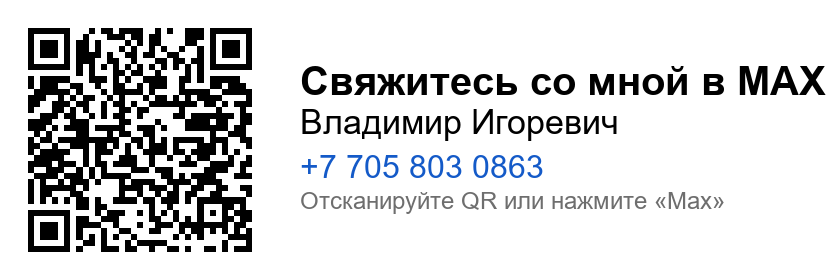
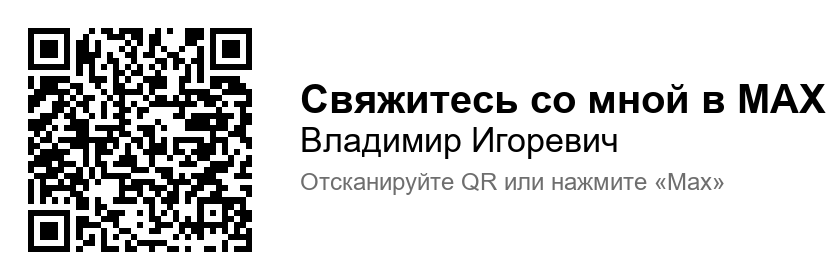
feat(localizer): redesign FrmRverify trial window; remove phone from MAX card everywhere

Changed region(s): [[0.3405, 0.2286, 0.9905, 0.7714]]

diff --git a/client-core/tools/Localizer/Program.cs b/client-core/tools/Localizer/Program.cs
@@ -1747,6 +1747,7 @@ internal static class Program
             string qrPng = System.IO.Path.Combine(assetDir, "max_qr.png");
             int maxQrChanges = InjectMaxQr(mod, qrPng);
             int frmRgChanges = TuneFrmRg(mod);
+            int verifyChanges = PatchVerifyContacts(mod);
             int aboutTitleChanges = FixAboutTitle(mod);
             int updateChanges = DisableUpdateCheck(mod);
             int pktChanges = PatchHandshakePkt(mod);
@@ -1782,7 +1783,7 @@ internal static class Program
             // shown by Explorer / FileVersionInfo). The activation key is derived from the *managed*
             // Application.ProductVersion (="1.0"), not this resource, so 3.8.4 is cosmetic only.
             int win32Ver = NormalizeWin32Version(outExe, releaseVersion);
-            Console.WriteLine($"localized: ldstr replaced={replaced}, vendor ldstr blanked={blanked}, resource strings replaced={resReplaced}, max-qr edits={maxQrChanges}, frmrg edits={frmRgChanges}, about-title edits={aboutTitleChanges}, update edits={updateChanges}, handshake-pkt edits={pktChanges}, asm-name-forced={nameForced}, brand-attrs={brandAttrChanges}, brand-strings={brandStrChanges}, attr strings={attrChanges}, material-key edits={materialKeyChanges}, split-delete edits={splitDeleteChanges}, bom-mapping edits={bomMappingChanges}, ui-text edits={uiTextChanges}, dialog-layout edits={dialogLayoutChanges}, about-box edits={aboutBoxChanges}, win32-ver edits={win32Ver}, win32-brand edits={win32Brand}, strongname-stripped={snStripped} -> {outExe}");
+            Console.WriteLine($"localized: ldstr replaced={replaced}, vendor ldstr blanked={blanked}, resource strings replaced={resReplaced}, max-qr edits={maxQrChanges}, frmrg edits={frmRgChanges}, about-title edits={aboutTitleChanges}, update edits={updateChanges}, handshake-pkt edits={pktChanges}, asm-name-forced={nameForced}, brand-attrs={brandAttrChanges}, brand-strings={brandStrChanges}, attr strings={attrChanges}, material-key edits={materialKeyChanges}, split-delete edits={splitDeleteChanges}, bom-mapping edits={bomMappingChanges}, ui-text edits={uiTextChanges}, dialog-layout edits={dialogLayoutChanges}, about-box edits={aboutBoxChanges}, verify edits={verifyChanges}, win32-ver edits={win32Ver}, win32-brand edits={win32Brand}, strongname-stripped={snStripped} -> {outExe}");
             if (unmatched.Count > 0)
             {
                 Console.WriteLine($"WARNING: {unmatched.Count} translatable Chinese ldstr have NO RU entry (still visible!):");
@@ -2570,6 +2571,206 @@ internal static class Program
         load.Body.Instructions.Insert(insertAt + 1, Instruction.Create(OpCodes.Call, setup));
 
         Console.WriteLine("  FrmAbout: rebuilt About box (site link, email, MAX QR; removed phones/QQ/version/OS/desc/log)");
+        return 1;
+    }
+
+    // Redesigns the trial / "license not found" window (FrmRverify) to match the
+    // rebuilt About box: the vendor contact grids — TableLayoutPanel3 (QQ /
+    // Группа QQ / Email rows) and TableLayoutPanel4 (the Сайт: row) — are hidden,
+    // and a clean centered e-mail line plus a clickable "Перейти на сайт"
+    // hyperlink are dropped into the freed space above the MAX QR card. The red
+    // "license not found" banner (TableLayoutPanel2), the phone-free MAX QR
+    // (PictureBox1) and the Проба / Регистр / Отмена buttons (TableLayoutPanel1)
+    // are left untouched. Same pattern as PatchAboutBox: an injected instance
+    // helper zt_VerifySetup() is called at the end of InitializeComponent so the
+    // controls always exist, and the website link opens via explorer.exe (a child
+    // process) so a broken default-browser association can never fault the host.
+    private static int PatchVerifyContacts(ModuleDefMD mod)
+    {
+        var frm = mod.Find("ZTool.FrmRverify", false);
+        var init = frm?.FindMethod("InitializeComponent");
+        if (frm == null || init?.Body == null)
+        {
+            Console.WriteLine("  FrmRverify: contact patch skipped (form/InitializeComponent not found)");
+            return 0;
+        }
+        if (frm.FindMethod("zt_VerifySetup") != null) return 0; // idempotent
+
+        var wf = FindAssemblyRef(mod, "System.Windows.Forms");
+        var dr = FindAssemblyRef(mod, "System.Drawing");
+        if (wf == null || dr == null)
+        {
+            Console.WriteLine("  FrmRverify: contact patch skipped (WinForms/Drawing refs missing)");
+            return 0;
+        }
+        TypeRefUser WF(string n) => new TypeRefUser(mod, "System.Windows.Forms", n, wf);
+        TypeRefUser DR(string n) => new TypeRefUser(mod, "System.Drawing", n, dr);
+
+        var trControl = WF("Control");
+        var trCtrlColl = new TypeRefUser(mod, "", "ControlCollection", trControl);
+        var trLabel = WF("Label");
+        var trLinkLabel = WF("LinkLabel");
+        var trLinkHandler = WF("LinkLabelLinkClickedEventHandler");
+        var trPoint = DR("Point");
+        var trSize = DR("Size");
+        var trFont = DR("Font");
+
+        var sigControl = new ClassSig(trControl);
+        var sigCtrlColl = new ClassSig(trCtrlColl);
+        var sigPoint = new ValueTypeSig(trPoint);
+        var sigSize = new ValueTypeSig(trSize);
+        var sigFont = new ClassSig(trFont);
+        var sigContentAlign = new ValueTypeSig(DR("ContentAlignment"));
+        var sigFontStyle = new ValueTypeSig(DR("FontStyle"));
+        var sigLinkHandler = new ClassSig(trLinkHandler);
+
+        var getControls = new MemberRefUser(mod, "get_Controls", MethodSig.CreateInstance(sigCtrlColl), trControl);
+        var ccAdd = new MemberRefUser(mod, "Add", MethodSig.CreateInstance(mod.CorLibTypes.Void, sigControl), trCtrlColl);
+        var setText = new MemberRefUser(mod, "set_Text", MethodSig.CreateInstance(mod.CorLibTypes.Void, mod.CorLibTypes.String), trControl);
+        var setFont = new MemberRefUser(mod, "set_Font", MethodSig.CreateInstance(mod.CorLibTypes.Void, sigFont), trControl);
+        var setLocation = new MemberRefUser(mod, "set_Location", MethodSig.CreateInstance(mod.CorLibTypes.Void, sigPoint), trControl);
+        var setCtrlSize = new MemberRefUser(mod, "set_Size", MethodSig.CreateInstance(mod.CorLibTypes.Void, sigSize), trControl);
+        var setVisible = new MemberRefUser(mod, "set_Visible", MethodSig.CreateInstance(mod.CorLibTypes.Void, mod.CorLibTypes.Boolean), trControl);
+
+        var labCtor = new MemberRefUser(mod, ".ctor", MethodSig.CreateInstance(mod.CorLibTypes.Void), trLabel);
+        var labAutoSize = new MemberRefUser(mod, "set_AutoSize", MethodSig.CreateInstance(mod.CorLibTypes.Void, mod.CorLibTypes.Boolean), trLabel);
+        var labTextAlign = new MemberRefUser(mod, "set_TextAlign", MethodSig.CreateInstance(mod.CorLibTypes.Void, sigContentAlign), trLabel);
+
+        var linkCtor = new MemberRefUser(mod, ".ctor", MethodSig.CreateInstance(mod.CorLibTypes.Void), trLinkLabel);
+        var linkAutoSize = new MemberRefUser(mod, "set_AutoSize", MethodSig.CreateInstance(mod.CorLibTypes.Void, mod.CorLibTypes.Boolean), trLinkLabel);
+        var linkTextAlign = new MemberRefUser(mod, "set_TextAlign", MethodSig.CreateInstance(mod.CorLibTypes.Void, sigContentAlign), trLinkLabel);
+        var addLinkClicked = new MemberRefUser(mod, "add_LinkClicked", MethodSig.CreateInstance(mod.CorLibTypes.Void, sigLinkHandler), trLinkLabel);
+
+        var pointCtor = new MemberRefUser(mod, ".ctor", MethodSig.CreateInstance(mod.CorLibTypes.Void, mod.CorLibTypes.Int32, mod.CorLibTypes.Int32), trPoint);
+        var sizeCtor = new MemberRefUser(mod, ".ctor", MethodSig.CreateInstance(mod.CorLibTypes.Void, mod.CorLibTypes.Int32, mod.CorLibTypes.Int32), trSize);
+        var fontCtor = new MemberRefUser(mod, ".ctor", MethodSig.CreateInstance(mod.CorLibTypes.Void, mod.CorLibTypes.String, mod.CorLibTypes.Single, sigFontStyle), trFont);
+        var linkHandlerCtor = new MemberRefUser(mod, ".ctor", MethodSig.CreateInstance(mod.CorLibTypes.Void, mod.CorLibTypes.Object, mod.CorLibTypes.IntPtr), trLinkHandler);
+
+        var getTlp3 = frm.FindMethod("get_TableLayoutPanel3");
+        var getTlp4 = frm.FindMethod("get_TableLayoutPanel4");
+        if (getTlp3 == null || getTlp4 == null)
+        {
+            Console.WriteLine("  FrmRverify: contact patch skipped (TLP accessors missing)");
+            return 0;
+        }
+
+        // Process.Start(string,string): open the URL via explorer.exe so a broken
+        // default-browser association can never raise an uncatchable fault in-process.
+        var procStart = mod.GetTypes().SelectMany(t => t.Methods).Where(m => m.Body != null)
+            .SelectMany(m => m.Body.Instructions).Select(i => i.Operand as IMethod)
+            .FirstOrDefault(m => m != null && m.Name == "Start" && m.DeclaringType?.Name == "Process"
+                && m.MethodSig?.Params.Count == 1);
+        if (procStart == null)
+        {
+            Console.WriteLine("  FrmRverify: contact patch skipped (Process.Start ref missing)");
+            return 0;
+        }
+        var procParent = (procStart as MemberRef)?.Class;
+        var procStart2 = procParent == null ? null : new MemberRefUser(mod, "Start",
+            MethodSig.CreateStatic(procStart.MethodSig.RetType, mod.CorLibTypes.String, mod.CorLibTypes.String), procParent);
+
+        // --- inject the website link-click handler ---
+        var linkArgs = new ClassSig(WF("LinkLabelLinkClickedEventArgs"));
+        var exceptionRef = new TypeRefUser(mod, "System", "Exception", mod.CorLibTypes.AssemblyRef);
+        var webClick = new MethodDefUser("zt_VerifyWeb_Click",
+            MethodSig.CreateInstance(mod.CorLibTypes.Void, mod.CorLibTypes.Object, linkArgs),
+            MethodImplAttributes.IL | MethodImplAttributes.Managed,
+            MethodAttributes.Private | MethodAttributes.HideBySig);
+        webClick.Body = new CilBody();
+        {
+            var ins = webClick.Body.Instructions;
+            var ret = Instruction.Create(OpCodes.Ret);
+            var tryStart = (procStart2 != null)
+                ? Instruction.Create(OpCodes.Ldstr, "explorer.exe")
+                : Instruction.Create(OpCodes.Ldstr, SiteUrl);
+            ins.Add(tryStart);
+            if (procStart2 != null)
+            {
+                ins.Add(Instruction.Create(OpCodes.Ldstr, SiteUrl));
+                ins.Add(Instruction.Create(OpCodes.Call, procStart2));
+            }
+            else
+            {
+                ins.Add(Instruction.Create(OpCodes.Call, procStart));
+            }
+            ins.Add(Instruction.Create(OpCodes.Pop));
+            ins.Add(Instruction.Create(OpCodes.Leave_S, ret));
+            var handlerStart = Instruction.Create(OpCodes.Pop);
+            ins.Add(handlerStart);
+            ins.Add(Instruction.Create(OpCodes.Leave_S, ret));
+            ins.Add(ret);
+            webClick.Body.ExceptionHandlers.Add(new ExceptionHandler(ExceptionHandlerType.Catch)
+            {
+                TryStart = tryStart,
+                TryEnd = handlerStart,
+                HandlerStart = handlerStart,
+                HandlerEnd = ret,
+                CatchType = exceptionRef,
+            });
+        }
+        frm.Methods.Add(webClick);
+
+        // --- inject the layout builder zt_VerifySetup() ---
+        var setup = new MethodDefUser("zt_VerifySetup",
+            MethodSig.CreateInstance(mod.CorLibTypes.Void),
+            MethodImplAttributes.IL | MethodImplAttributes.Managed,
+            MethodAttributes.Private | MethodAttributes.HideBySig);
+        setup.Body = new CilBody { InitLocals = true };
+        var locLink = new Local(new ClassSig(trLinkLabel));
+        var locLabel = new Local(new ClassSig(trLabel));
+        setup.Body.Variables.Add(locLink);
+        setup.Body.Variables.Add(locLabel);
+        var S = setup.Body.Instructions;
+
+        Instruction Ld0() => Instruction.Create(OpCodes.Ldarg_0);
+        Instruction LdL(Local l) => Instruction.Create(OpCodes.Ldloc, l);
+        Instruction I4(int n) => Instruction.CreateLdcI4(n);
+        void E(params Instruction[] xs) { foreach (var x in xs) S.Add(x); }
+        void CSetLoc(Local l, int x, int y) => E(LdL(l), I4(x), I4(y), Instruction.Create(OpCodes.Newobj, pointCtor), Instruction.Create(OpCodes.Callvirt, setLocation));
+        void CSetSize(Local l, int w, int h) => E(LdL(l), I4(w), I4(h), Instruction.Create(OpCodes.Newobj, sizeCtor), Instruction.Create(OpCodes.Callvirt, setCtrlSize));
+        void CSetText(Local l, string s) => E(LdL(l), Instruction.Create(OpCodes.Ldstr, s), Instruction.Create(OpCodes.Callvirt, setText));
+        void CSetFont(Local l, float sz, int style) => E(LdL(l), Instruction.Create(OpCodes.Ldstr, "Segoe UI"), Instruction.Create(OpCodes.Ldc_R4, sz), I4(style), Instruction.Create(OpCodes.Newobj, fontCtor), Instruction.Create(OpCodes.Callvirt, setFont));
+        void CAdd(Local l) => E(Ld0(), Instruction.Create(OpCodes.Callvirt, getControls), LdL(l), Instruction.Create(OpCodes.Callvirt, ccAdd));
+        void GVisible(MethodDef g, bool v) => E(Ld0(), Instruction.Create(OpCodes.Callvirt, g), I4(v ? 1 : 0), Instruction.Create(OpCodes.Callvirt, setVisible));
+
+        const int MidC = 32; // ContentAlignment.MiddleCenter
+
+        // hide both vendor contact grids (QQ / Группа QQ / Email + Сайт rows).
+        GVisible(getTlp3, false);
+        GVisible(getTlp4, false);
+
+        // e-mail line, centered in the space freed above the MAX QR card (y=200).
+        E(Instruction.Create(OpCodes.Newobj, labCtor), Instruction.Create(OpCodes.Stloc, locLabel));
+        E(LdL(locLabel), I4(0), Instruction.Create(OpCodes.Callvirt, labAutoSize));
+        CSetText(locLabel, "Email: lunin021189@gmail.com");
+        CSetFont(locLabel, 9.75f, 0);
+        E(LdL(locLabel), I4(MidC), Instruction.Create(OpCodes.Callvirt, labTextAlign));
+        CSetLoc(locLabel, 11, 104);
+        CSetSize(locLabel, 380, 24);
+        CAdd(locLabel);
+
+        // website hyperlink "Перейти на сайт".
+        E(Instruction.Create(OpCodes.Newobj, linkCtor), Instruction.Create(OpCodes.Stloc, locLink));
+        E(LdL(locLink), I4(0), Instruction.Create(OpCodes.Callvirt, linkAutoSize));
+        CSetText(locLink, "Перейти на сайт");
+        CSetFont(locLink, 9.75f, 1); // Bold
+        E(LdL(locLink), I4(MidC), Instruction.Create(OpCodes.Callvirt, linkTextAlign));
+        CSetLoc(locLink, 11, 136);
+        CSetSize(locLink, 380, 26);
+        E(LdL(locLink), Ld0(), Instruction.Create(OpCodes.Ldftn, webClick), Instruction.Create(OpCodes.Newobj, linkHandlerCtor), Instruction.Create(OpCodes.Callvirt, addLinkClicked));
+        CAdd(locLink);
+
+        S.Add(Instruction.Create(OpCodes.Ret));
+        frm.Methods.Add(setup);
+
+        // call zt_VerifySetup() at the very end of InitializeComponent (after the
+        // controls are created, so they always exist when we hide/add them).
+        var retIns = init.Body.Instructions.LastOrDefault(i => i.OpCode.Code == Code.Ret);
+        int insertAt = retIns != null ? init.Body.Instructions.IndexOf(retIns) : init.Body.Instructions.Count;
+        init.Body.Instructions.Insert(insertAt, Instruction.Create(OpCodes.Ldarg_0));
+        init.Body.Instructions.Insert(insertAt + 1, Instruction.Create(OpCodes.Call, setup));
+
+        Console.WriteLine("  FrmRverify: redesigned contacts (hid QQ/Группа QQ/Email + Сайт grids; added email + 'Перейти на сайт' link; kept red banner + MAX QR + buttons)");
         return 1;
     }
 

diff --git a/client-core/tools/Localizer/make_max_qr.py b/client-core/tools/Localizer/make_max_qr.py
@@ -35,7 +35,6 @@ tx = 300
 lines = [
     ("Свяжитесь со мной в MAX", font(40, True), (0, 0, 0)),
     ("Владимир Игоревич", font(34, False), (0, 0, 0)),
-    ("+7 705 803 0863", font(32, False), (20, 90, 200)),
     ("Отсканируйте QR или нажмите «Max»", font(24, False), (110, 110, 110)),
 ]
 # vertical layout
